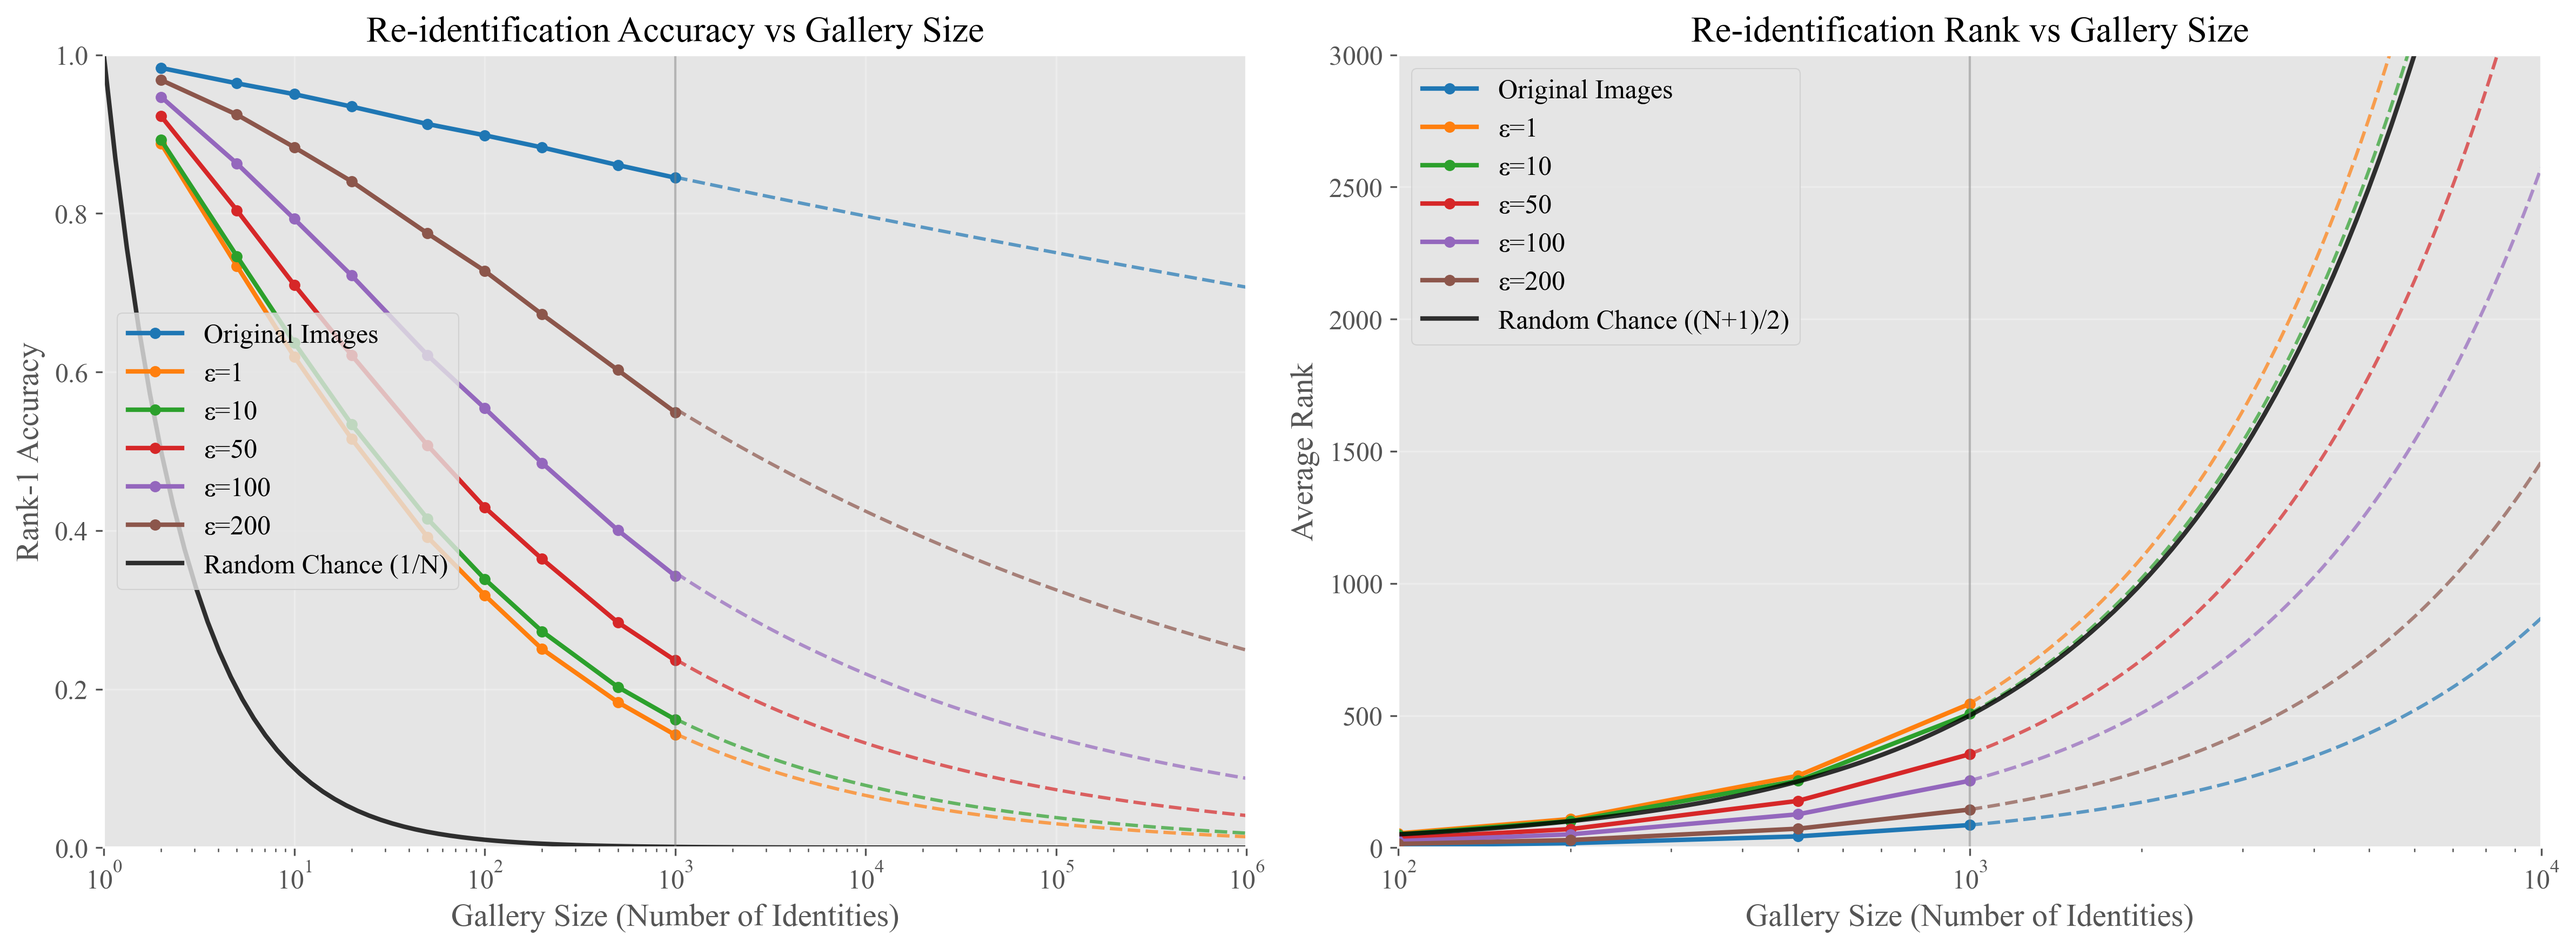
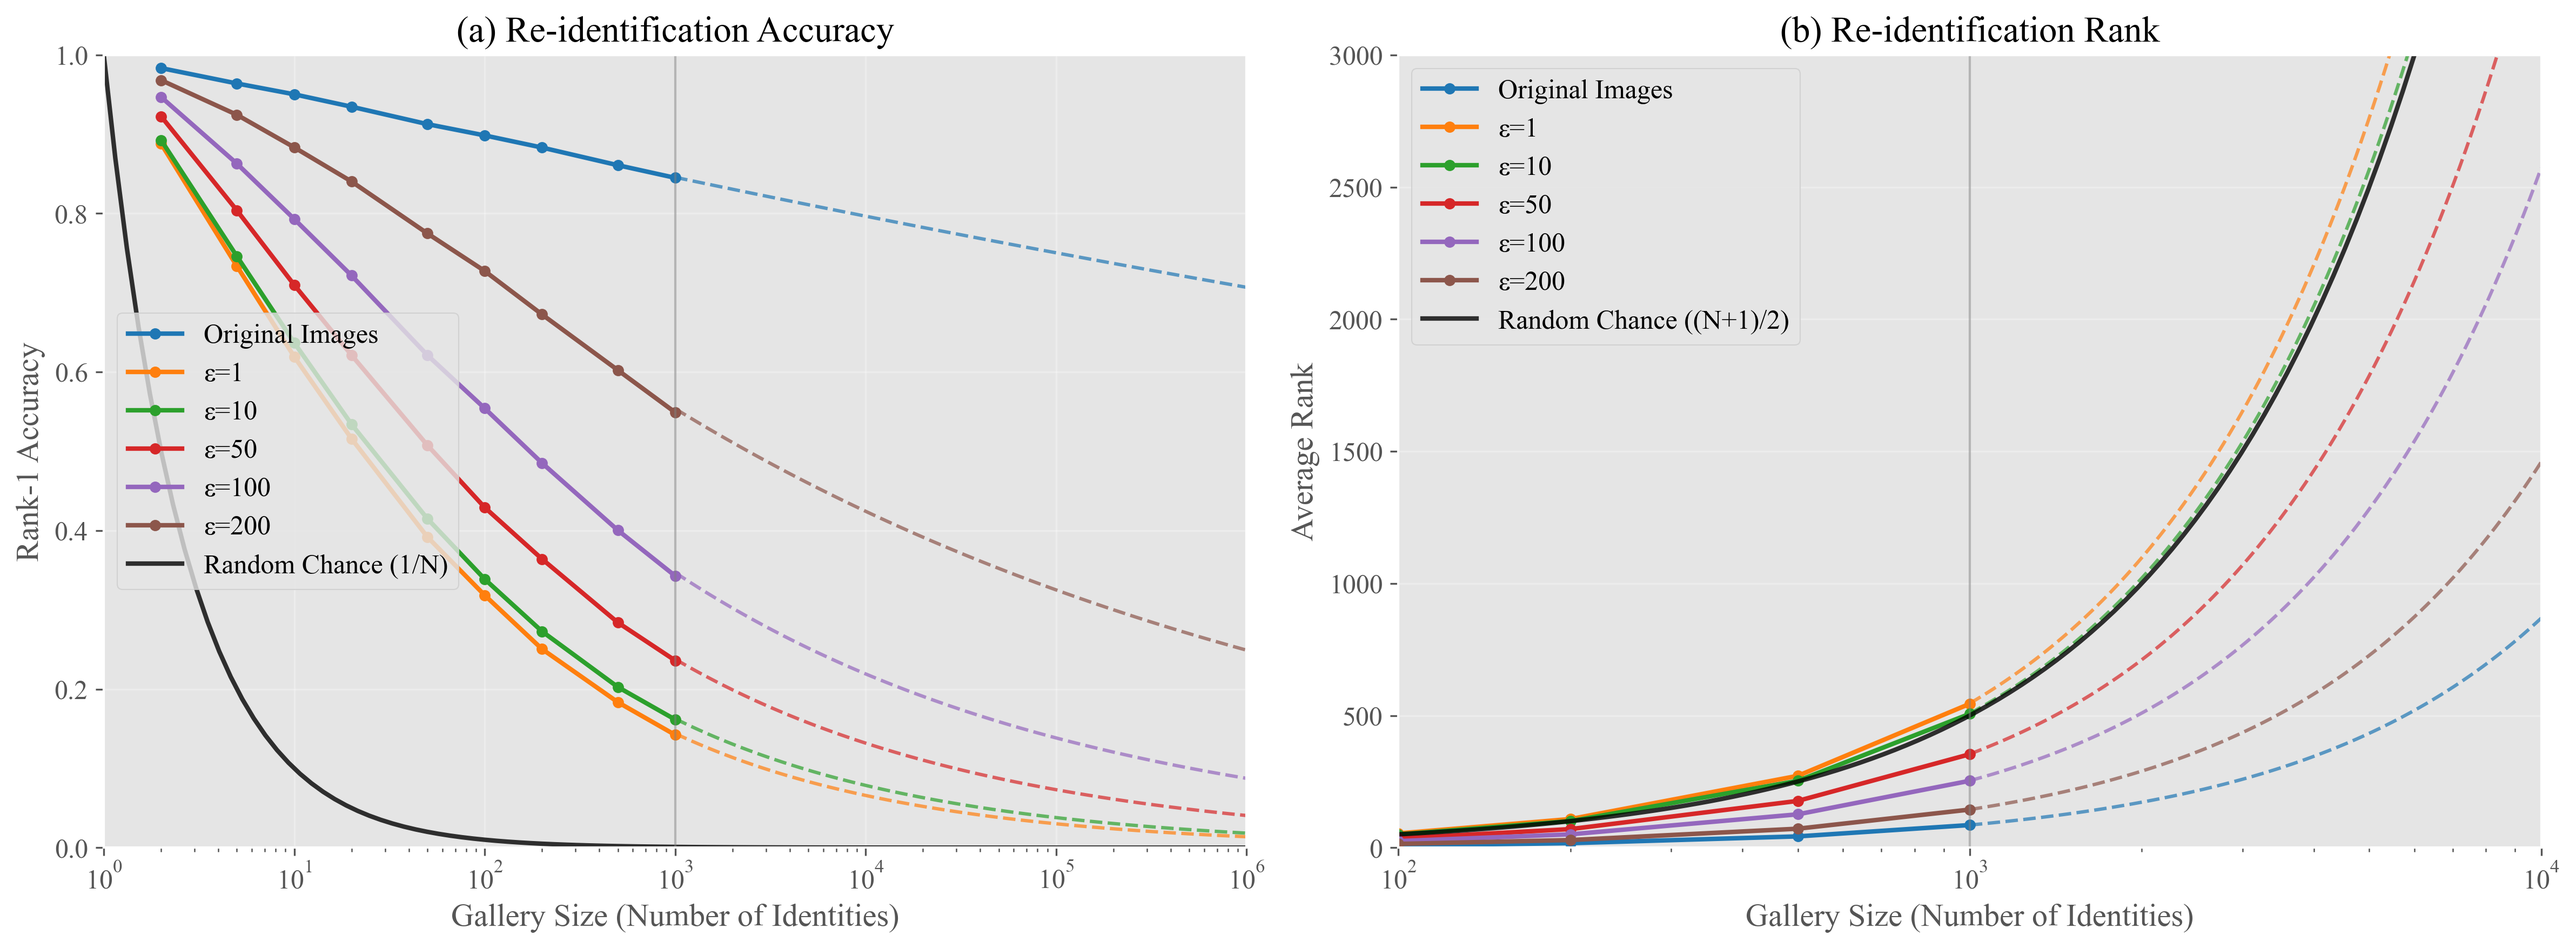
tweak subplot labels

Changed region(s): [[0.6562, 0.0, 0.875, 0.0614], [0.1562, 0.0, 0.375, 0.0614]]

diff --git a/gallery_scaling/visualize_results.py b/gallery_scaling/visualize_results.py
@@ -166,7 +166,7 @@ def create_comprehensive_figure(accuracy_df, rank_df, model_df):
     # Configure accuracy subplot
     ax1.set_xlabel('Gallery Size (Number of Identities)', fontsize=14)
     ax1.set_ylabel('Rank-1 Accuracy', fontsize=14)
-    ax1.set_title('Re-identification Accuracy vs Gallery Size', fontsize=16)
+    ax1.set_title('(a) Re-identification Accuracy', fontsize=16)
     ax1.set_xscale('log')
     ax1.set_yscale('linear')  # Linear Y-axis
     ax1.grid(True, alpha=0.3)
@@ -181,7 +181,7 @@ def create_comprehensive_figure(accuracy_df, rank_df, model_df):
     # Configure rank subplot
     ax2.set_xlabel('Gallery Size (Number of Identities)', fontsize=14)
     ax2.set_ylabel('Average Rank', fontsize=14)
-    ax2.set_title('Re-identification Rank vs Gallery Size', fontsize=16)
+    ax2.set_title('(b) Re-identification Rank', fontsize=16)
     ax2.set_xscale('log')
     ax2.set_yscale('linear')  # Linear Y-axis
     ax2.grid(True, alpha=0.3)
